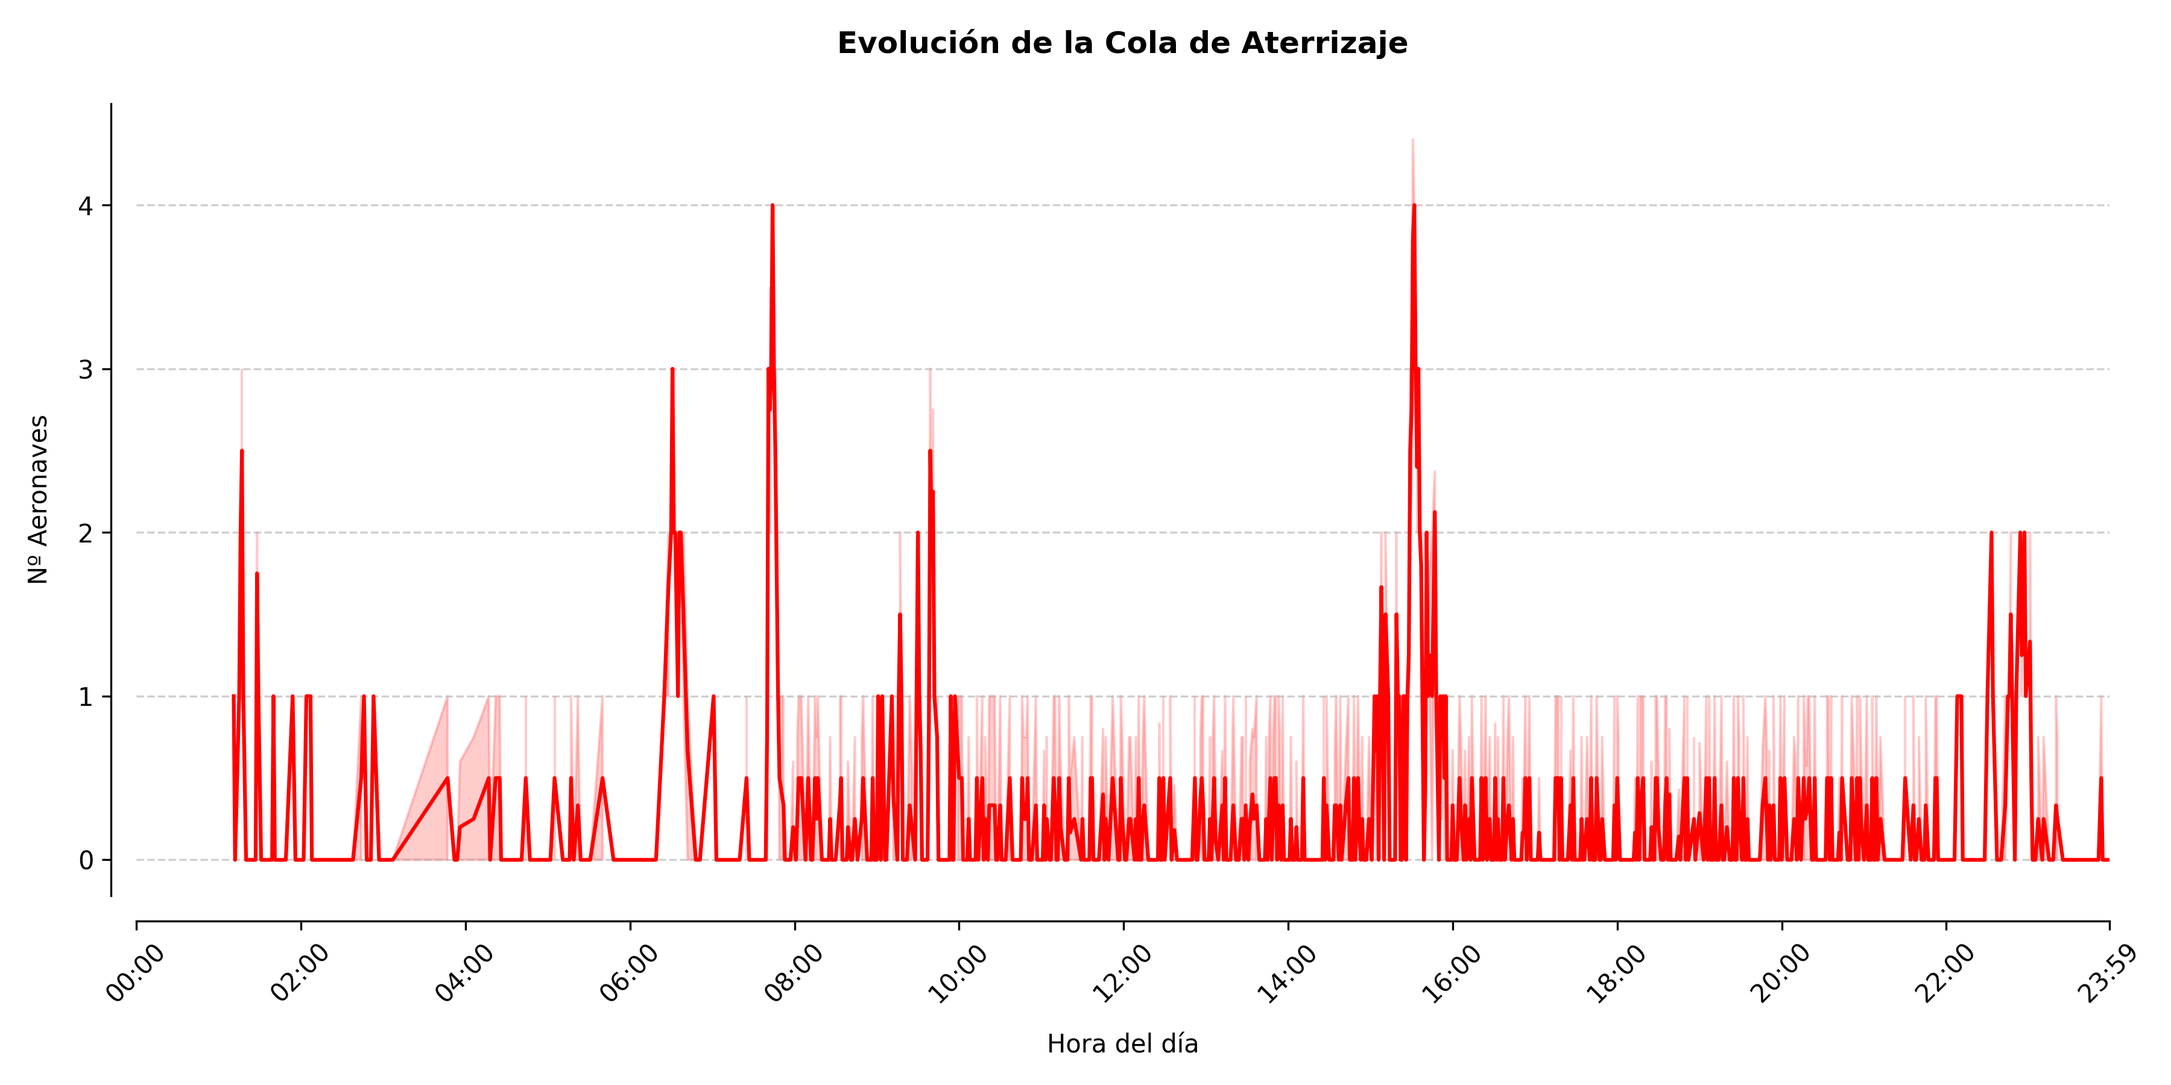
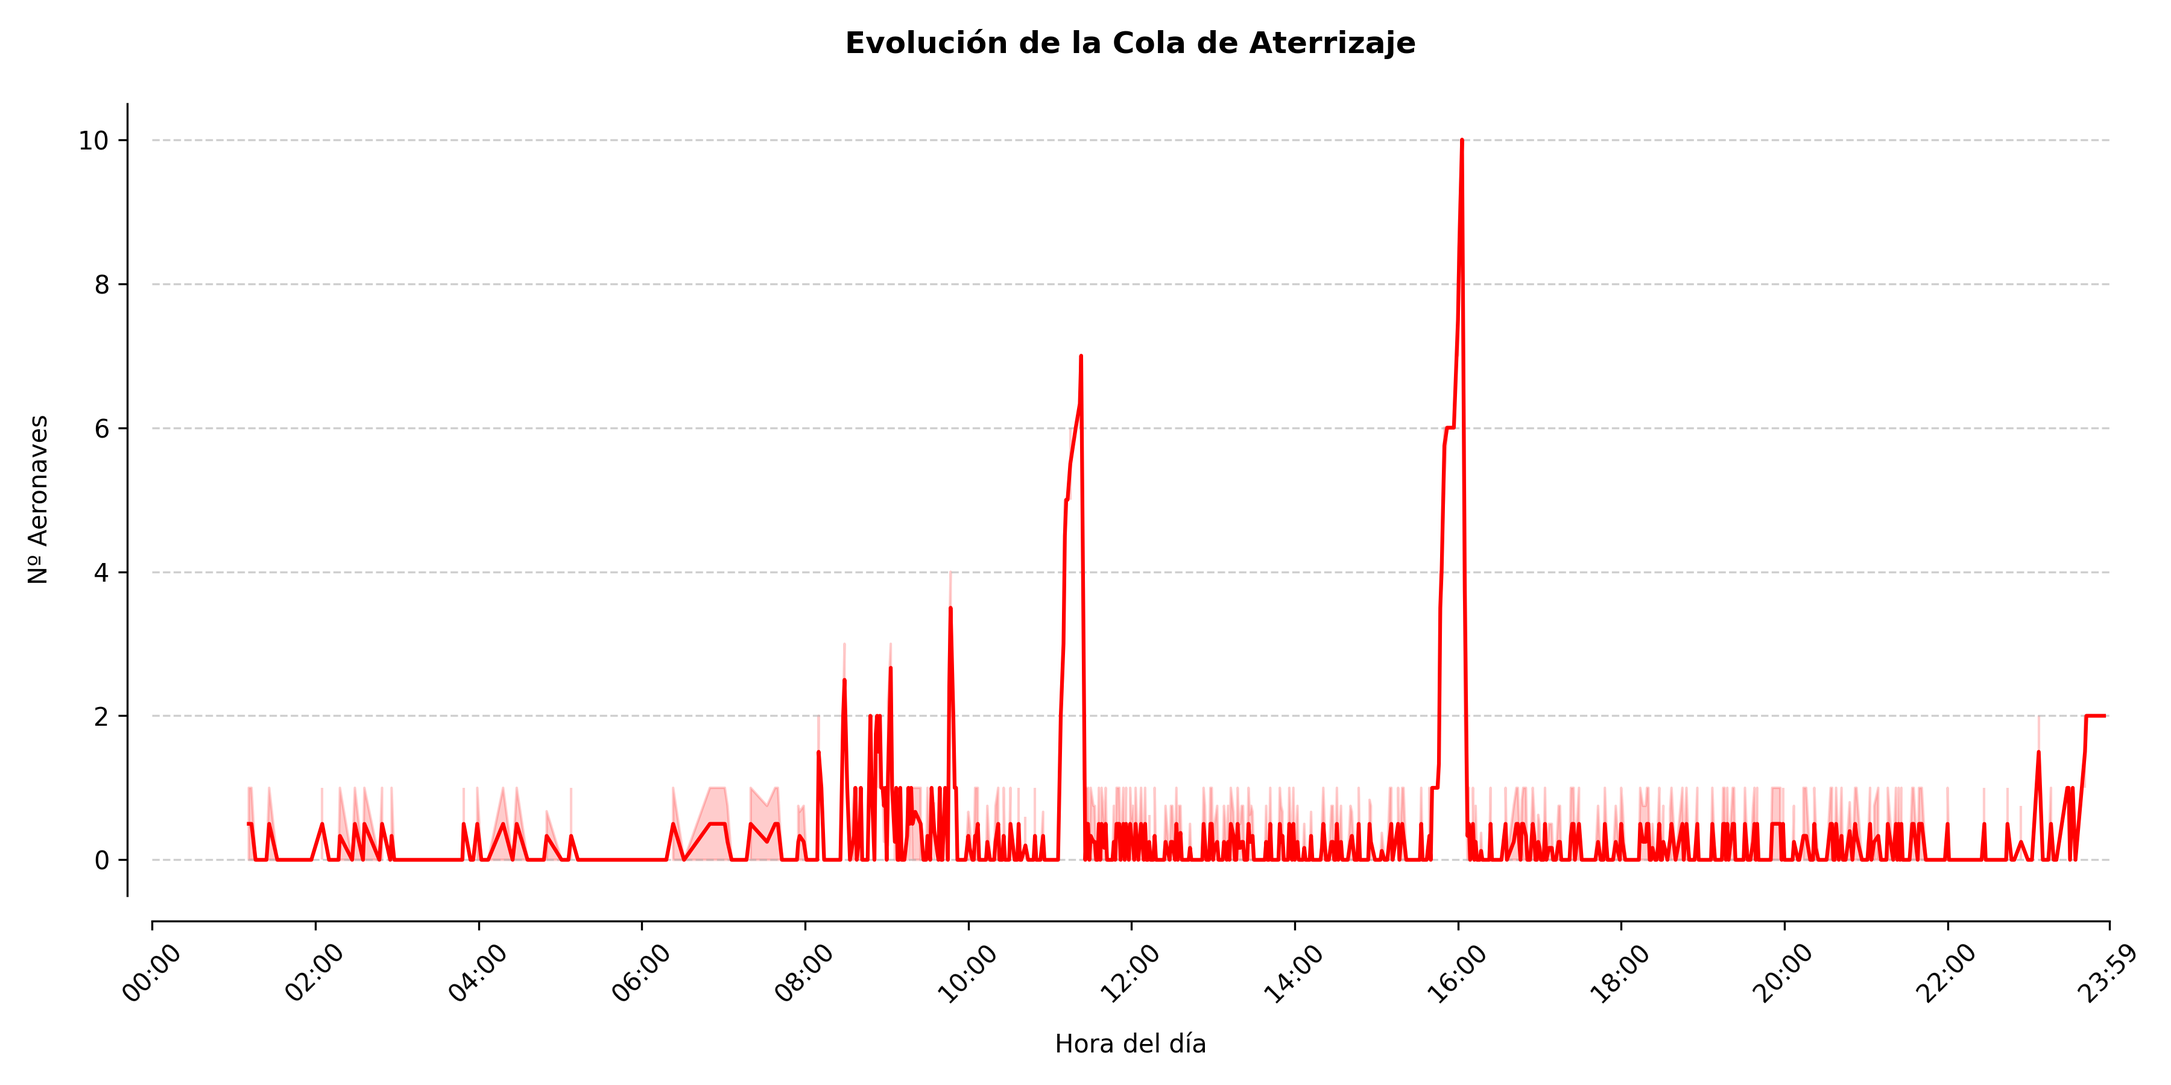
añadido cosas al log, tmb cierre de pistas y vuelos de emergencia

diff --git a/src/Aeronaves.py b/src/Aeronaves.py
@@ -24,6 +24,7 @@ class Aeronave:
         self.tiempoLlegadaMinutos = 0
         self.ticket = ""
         self.gate = ""
+        self.emergencia = False
 
     def infoColaAterrizaje(self,evento,estadoClima,mes,aeronaves):
         try:
@@ -34,10 +35,10 @@ class Aeronave:
         with open(logs,"a", newline="") as log:
             writer = csv.writer(log)
             if not existeEncabezado:
-                writer.writerow(["Reloj","ID","ID_Vuelo","Estado","Pasajeros","Origen","Destino","Hora_Salida_Origen","Hora_Programada_Llegada_Destino","Hora_Llegada_Destino","Hora_Estacionamiento","Hora_Programada_Salida","Hora_Despegue","Tiempo_Ciclo_Aeronave","Mes","Clima","Aeronaves_En_Cola_Llegada","Aeronaves_En_Estacionamiento","Aeronaves_En_Cola_Salida","Gate"])
+                writer.writerow(["Reloj","ID","ID_Vuelo","Estado","Estado_Pista_Aterrizaje","Estado_Pista_Despegue","Pasajeros","Origen","Destino","Hora_Salida_Origen","Hora_Programada_Llegada_Destino","Hora_Llegada_Destino","Hora_Estacionamiento","Hora_Programada_Salida","Hora_Despegue","Tiempo_Ciclo_Aeronave","Mes","Clima","Aeronaves_En_Cola_Llegada","Aeronaves_En_Estacionamiento","Aeronaves_En_Cola_Salida","Gate","Emergencia"])
             reloj = Aeronave.infoReloj(evento.now)
             self.estado = "Llegando"
-            writer.writerow([reloj,self.id,self.vueloId,self.estado,self.pasajeros,self.origen,self.destino,self.horaSalida,self.horaLlegada,self.horaLlegadaReal,self.horaEstacionado,self.horaProgramadaSalida,self.horaDespegue,self.tiempoCicloAvion,mes,estadoClima['clima'],aeronaves["AeronavesEnColaLlegada"],aeronaves["AeronavesEstacionados"],aeronaves["AeronavesEnColaSalida"],""])
+            writer.writerow([reloj,self.id,self.vueloId,self.estado,estadoClima['estadoPistaAterrizaje'],estadoClima['estadoPistaDespegue'],self.pasajeros,self.origen,self.destino,self.horaSalida,self.horaLlegada,self.horaLlegadaReal,self.horaEstacionado,self.horaProgramadaSalida,self.horaDespegue,self.tiempoCicloAvion,mes,estadoClima['clima'],aeronaves["AeronavesEnColaLlegada"],aeronaves["AeronavesEstacionados"],aeronaves["AeronavesEnColaSalida"],"",self.emergencia])
 
     # Te da la info de las aeronaves que ya han aterrizado
     def infoAterrizaje(self,evento,estadoClima,mes,aeronaves):
@@ -45,7 +46,7 @@ class Aeronave:
         self.estado = "Aterrizaje"
         with open(logs,"a") as log:
             writer = csv.writer(log)
-            writer.writerow([reloj,self.id,self.vueloId,self.estado,self.pasajeros,self.origen,self.destino,self.horaSalida,self.horaLlegada,self.horaLlegadaReal,self.horaEstacionado,self.horaProgramadaSalida,self.horaDespegue,self.tiempoCicloAvion,mes,estadoClima['clima'],aeronaves["AeronavesEnColaLlegada"],aeronaves["AeronavesEstacionados"],aeronaves["AeronavesEnColaSalida"],""])
+            writer.writerow([reloj,self.id,self.vueloId,self.estado,estadoClima['estadoPistaAterrizaje'],estadoClima['estadoPistaDespegue'],self.pasajeros,self.origen,self.destino,self.horaSalida,self.horaLlegada,self.horaLlegadaReal,self.horaEstacionado,self.horaProgramadaSalida,self.horaDespegue,self.tiempoCicloAvion,mes,estadoClima['clima'],aeronaves["AeronavesEnColaLlegada"],aeronaves["AeronavesEstacionados"],aeronaves["AeronavesEnColaSalida"],"",self.emergencia])
 
     # Te da la info de las aeronaves que ya estan estacionadas
     def infoEstacionado(self,evento,estadoClima,mes,aeronaves):
@@ -53,7 +54,7 @@ class Aeronave:
         self.estado = "Estacionado"
         with open(logs,"a") as log:
             writer = csv.writer(log)
-            writer.writerow([reloj,self.id,self.vueloId,self.estado,self.pasajeros,self.origen,self.destino,self.horaSalida,self.horaLlegada,self.horaLlegadaReal,self.horaEstacionado,self.horaProgramadaSalida,self.horaDespegue,self.tiempoCicloAvion,mes,estadoClima['clima'],aeronaves["AeronavesEnColaLlegada"],aeronaves["AeronavesEstacionados"],aeronaves["AeronavesEnColaSalida"],self.gate])
+            writer.writerow([reloj,self.id,self.vueloId,self.estado,estadoClima['estadoPistaAterrizaje'],estadoClima['estadoPistaDespegue'],self.pasajeros,self.origen,self.destino,self.horaSalida,self.horaLlegada,self.horaLlegadaReal,self.horaEstacionado,self.horaProgramadaSalida,self.horaDespegue,self.tiempoCicloAvion,mes,estadoClima['clima'],aeronaves["AeronavesEnColaLlegada"],aeronaves["AeronavesEstacionados"],aeronaves["AeronavesEnColaSalida"],self.gate,self.emergencia])
     
     # Te da la info aproximada de cuando va a salir un vuelo
     def infoSalidas(self,evento,estadoClima,mes,aeronaves):
@@ -61,7 +62,7 @@ class Aeronave:
         self.estado = "Programado"
         with open(logs,"a") as log:
             writer = csv.writer(log)
-            writer.writerow([reloj,self.id,self.vueloId,self.estado,self.pasajeros,self.origen,self.destino,self.horaSalida,self.horaLlegada,self.horaLlegadaReal,self.horaEstacionado,self.horaProgramadaSalida,self.horaDespegue,self.tiempoCicloAvion,mes,estadoClima['clima'],aeronaves["AeronavesEnColaLlegada"],aeronaves["AeronavesEstacionados"],aeronaves["AeronavesEnColaSalida"],self.gate])
+            writer.writerow([reloj,self.id,self.vueloId,self.estado,estadoClima['estadoPistaAterrizaje'],estadoClima['estadoPistaDespegue'],self.pasajeros,self.origen,self.destino,self.horaSalida,self.horaLlegada,self.horaLlegadaReal,self.horaEstacionado,self.horaProgramadaSalida,self.horaDespegue,self.tiempoCicloAvion,mes,estadoClima['clima'],aeronaves["AeronavesEnColaLlegada"],aeronaves["AeronavesEstacionados"],aeronaves["AeronavesEnColaSalida"],self.gate,self.emergencia])
 
     # Te da la info de cuando un avion se mete en la cola de despegues
     def infoColaDespegues(self,evento,estadoClima,mes,aeronaves):
@@ -69,8 +70,7 @@ class Aeronave:
         self.estado = "ColaDespegues"
         with open(logs,"a") as log:
             writer = csv.writer(log)
-            writer.writerow([reloj,self.id,self.vueloId,self.estado,self.pasajeros,self.origen,self.destino,self.horaSalida,self.horaLlegada,self.horaLlegadaReal,self.horaEstacionado,self.horaProgramadaSalida,self.horaDespegue,self.tiempoCicloAvion,mes,estadoClima['clima'],aeronaves["AeronavesEnColaLlegada"],aeronaves["AeronavesEstacionados"],aeronaves["AeronavesEnColaSalida"],self.gate])
-
+            writer.writerow([reloj,self.id,self.vueloId,self.estado,estadoClima['estadoPistaAterrizaje'],estadoClima['estadoPistaDespegue'],self.pasajeros,self.origen,self.destino,self.horaSalida,self.horaLlegada,self.horaLlegadaReal,self.horaEstacionado,self.horaProgramadaSalida,self.horaDespegue,self.tiempoCicloAvion,mes,estadoClima['clima'],aeronaves["AeronavesEnColaLlegada"],aeronaves["AeronavesEstacionados"],aeronaves["AeronavesEnColaSalida"],self.gate,self.emergencia])
 
     # Te da la info de cuando ha despegado un avion, si han habido retrasos etc etc
     def infoDespegues(self,evento,estadoClima,mes,aeronaves):
@@ -78,7 +78,7 @@ class Aeronave:
         self.estado = "Despegando"
         with open(logs,"a") as log:
             writer = csv.writer(log)
-            writer.writerow([reloj,self.id,self.vueloId,self.estado,self.pasajeros,self.origen,self.destino,self.horaSalida,self.horaLlegada,self.horaLlegadaReal,self.horaEstacionado,self.horaProgramadaSalida,self.horaDespegue,self.tiempoCicloAvion,mes,estadoClima['clima'],aeronaves["AeronavesEnColaLlegada"],aeronaves["AeronavesEstacionados"],aeronaves["AeronavesEnColaSalida"],""])
+            writer.writerow([reloj,self.id,self.vueloId,self.estado,estadoClima['estadoPistaAterrizaje'],estadoClima['estadoPistaDespegue'],self.pasajeros,self.origen,self.destino,self.horaSalida,self.horaLlegada,self.horaLlegadaReal,self.horaEstacionado,self.horaProgramadaSalida,self.horaDespegue,self.tiempoCicloAvion,mes,estadoClima['clima'],aeronaves["AeronavesEnColaLlegada"],aeronaves["AeronavesEstacionados"],aeronaves["AeronavesEnColaSalida"],"",self.emergencia])
 
     def infoReloj(evento):
             minsActuales = int(evento)

diff --git a/src/Dashboard.py b/src/Dashboard.py
@@ -53,8 +53,14 @@ velocidad = st.sidebar.slider("Velocidad", 0.01, 1.0, 0.1, format="%f s")
 if not dataset.empty:
     progreso_dia = st.session_state.i/len(dataset)
     st.sidebar.progress(min(progreso_dia, 1.0), text="Progreso del Dia")
-
-def render_operativa(fila,colas):
+def emergencia(fila):
+    valor = str(fila.get('Emergencia','False')).strip()
+    if valor == 'True':
+        return ['background-color: #8B0000; color: white'] * len(fila)
+    else:
+        return[''] * len(fila)
+    
+def operativa(fila,colas,datasetHistory):
     st.subheader(f"VISTA OPERATIVA | {fila['Reloj']}")
     c1, c2, c3 = st.columns(3)
     with c1:
@@ -78,28 +84,35 @@ def render_operativa(fila,colas):
         st.markdown(f"<div style='font-size:20px'>{iconos}</div>", unsafe_allow_html=True)
 
     st.divider()
-    if 'val1' not in st.session_state:
-        st.session_state.val1 = ""
-    if 'val2' not in st.session_state:
-        st.session_state.val2 = ""
-    if 'val3' not in st.session_state:
-        st.session_state.val3 = ""
-    mensaje1 = st.empty()
-    mensaje2 = st.empty()
-    mensaje3 = st.empty()
+    if 'aterrizaje' not in st.session_state:
+        st.session_state.aterrizaje = None
+    if 'parking' not in st.session_state:
+        st.session_state.parking = None
+    if 'despegue' not in st.session_state:
+        st.session_state.despegue = None
     
     if fila['Estado'] == "Aterrizaje":
-        st.session_state.val1 = f"Ultimo Aterrizaje registrado: Vuelo {fila['ID_Vuelo']} ({fila['Hora_Salida_Origen']}|{fila['Origen']} -> {fila['Hora_Llegada_Destino']}|{fila['Destino']}) aterrizo"
+        st.session_state.aterrizaje = fila
     if fila['Estado'] == "Estacionado":
-        st.session_state.val2 =f"Ultimo Estacionamiento registrado: Vuelo {fila['ID_Vuelo']} ({fila['Hora_Salida_Origen']}|{fila['Origen']} -> {fila['Hora_Llegada_Destino']}|{fila['Destino']}) estaciono"
+        st.session_state.parking = fila
     if fila['Estado'] == "Despegando":
-        st.session_state.val3 =f"Ultimo Despegue registrado: Vuelo {fila['ID_Vuelo']} ({fila['Hora_Salida_Origen']}|{fila['Origen']} -> {fila['Hora_Llegada_Destino']}|{fila['Destino']}) despego"
-    mensaje1.caption(st.session_state.val1)
-    mensaje2.caption(st.session_state.val2)
-    mensaje3.caption(st.session_state.val3)
+        st.session_state.despegue = fila
+        
+    st.markdown("Ultimos eventos registrados")
+    filas = []
+    if st.session_state.aterrizaje is not None:
+        filas.append(st.session_state.aterrizaje)
+    if st.session_state.parking is not None:
+        filas.append(st.session_state.parking)
+    if st.session_state.despegue is not None:
+        filas.append(st.session_state.despegue)
+
+    if filas:
+        resumen = pd.DataFrame(filas)
+        st.dataframe(resumen.style.apply(emergencia, axis=1),use_container_width=True,hide_index=True)
 
 
-def render_tactica(dataset_hist,fila):
+def tactica(datasetHistory,fila):
     st.subheader(f"VISTA TACTICA | {fila['Reloj']}")
     c4, c5, c6 = st.columns(3)
     with c4:
@@ -125,8 +138,8 @@ def render_tactica(dataset_hist,fila):
         st.markdown(f"               ")
 
     # Tendencia de Colas
-    if not dataset_hist.empty:
-        fig = px.area(dataset_hist, x="Reloj", y=["Aeronaves_En_Cola_Llegada", "Aeronaves_En_Cola_Salida"],
+    if not datasetHistory.empty:
+        fig = px.area(datasetHistory, x="Reloj", y=["Aeronaves_En_Cola_Llegada", "Aeronaves_En_Cola_Salida"],
                       title="Evolucion de Colas (Ultimas 2 horas)", height=300,
                       color_discrete_sequence=["#FFC107", "#FF4B4B"])
         st.plotly_chart(fig, use_container_width=True)
@@ -134,9 +147,14 @@ def render_tactica(dataset_hist,fila):
         st.markdown(f"               ")
         st.markdown(f"               ")
 
-def render_alerta(fila,colas):
+def alerta(fila,colas):
     motivo = "SATURACION DE PISTA" if colas['llegada'] > 7 else "PARKING COMPLETO"
     st.markdown(f"<div class='alerta'>ALERTA CRITICA: {motivo} ({fila['Reloj']})</div>", unsafe_allow_html=True)
+    st.error(f"Llegadas: {colas['llegada']} | Parking: {colas['parking']}/50")
+
+def averia(estado):
+    motivo = "OBJETO EN PISTA DE ATERRIZAJE" if estado['pistaAterrizaje'] == "Cerrada" else "OBJETO EN PISTA DE DESPEGUE"
+    st.markdown(f"<div class='averia'>AVERIA: {motivo} ({fila['Reloj']})</div>", unsafe_allow_html=True)
     st.error(f"Llegadas: {colas['llegada']} | Parking: {colas['parking']}/50")
 
 
@@ -148,32 +166,41 @@ idx = st.session_state.i
 fila = dataset.iloc[idx]
 
 inicio_hist = max(0,idx - 60)
-dataset_history = dataset.iloc[inicio_hist:idx+1]
+datasetH = dataset.iloc[inicio_hist:idx+1]
 
 colas = {
     'llegada': int(fila['Aeronaves_En_Cola_Llegada']),
     'parking': int(fila['Aeronaves_En_Estacionamiento']),
     'salida': int(fila['Aeronaves_En_Cola_Salida'])
 }
+estado = {
+    'pistaDespegue': fila['Estado_Pista_Despegue'],
+    'pistaAterrizaje':fila['Estado_Pista_Aterrizaje']  
+}
 
 container = st.container()
 with container:
     if colas['llegada'] > 7 or colas['parking'] >= 45:
-        render_alerta(fila,colas)
+        alerta(fila,colas)
+
+    if estado['pistaDespegue'] == "Cerrada" or estado['pistaAterrizaje'] == "Cerrada":
+        averia(estado)
     
     elif modo == "Vista Operativa":
-        render_operativa(fila,colas)
+        operativa(fila,colas,datasetH)
     
     elif modo == "Vista Tactica":
-        render_tactica(dataset_history,fila)
+        tactica(datasetH,fila)
     
     else:
         if (idx // 50) % 2 == 0:
-            render_operativa(fila,colas)
+            operativa(fila,colas,datasetH)
         else:
-            render_tactica(dataset_history,fila)
+            tactica(datasetH,fila)
 
 if st.session_state.simulando:
     time.sleep(velocidad)
     st.session_state.i += 1
     st.rerun() 
+
+############################FUNCIONES AUXILIARES############################

diff --git a/src/TorreDeControl.py b/src/TorreDeControl.py
@@ -24,6 +24,7 @@ def controlAereo(evento,anuncio,parking,pistaAterrizajes,pistaDespegues,colaAter
             controlTurnosLlegadas(hora,turnos)
             Aeronave.totalAeronaves += 1
             Aeronave.totalPasajeros += avion.pasajeros
+            aterrizajeEmergencia(avion)
             # Ciclo completo de cada avion
             evento.process(cicloAvion(evento,avion,parking,anuncio,pistaAterrizajes,pistaDespegues,colaAterrizajes,colaEstacionados,colaSalidas,colaDespegues,estadoClima,mes,turnos,aeronaves))
 
@@ -49,14 +50,19 @@ def controlLlegadas(evento,avion,colaAterrizajes,estadoClima,mes,aeronaves):
 # Una vez llegan las aeronaves las retira de la otra cola y las añade a la de aterrizados
 def controlAterrizajes(evento,pista,colaAterrizajes,colaEstacionados,estadoClima,mes,aeronaves):
     if colaAterrizajes:
-        with pista.request( ) as request: # si hay request de aterrizar en pista
+        avion = colaAterrizajes.items[0]
+        if avion.emergencia:
+            prioridad = -1
+        else:
+            prioridad = 1
+        with pista.request(priority=prioridad) as request: # si hay request de aterrizar en pista
             yield request
             tiempoHastaAterrizar = estadoClima['retraso']
             yield evento.timeout(tiempoHastaAterrizar)
             aterriza = yield colaAterrizajes.get()
+            aeronaves["AeronavesEnColaLlegada"] -= 1
             aterriza.horaLlegadaReal = tiempoEvento(evento.now)
             aterriza.tiempoLlegadaMinutos = int(evento.now)
-            aeronaves["AeronavesEnColaLlegada"] -= 1
             aterriza.infoAterrizaje(evento,estadoClima,mes,aeronaves)
             yield colaEstacionados.put(aterriza)   
     else:
@@ -103,7 +109,7 @@ def controlDespegues(evento,parking,pista,colaDespegues,estadoClima,mes,turnos,a
     if colaDespegues:
         salida = yield colaDespegues.get()
         avion = salida
-        with pista.request() as request: #hace request por si no hay ningún avión en la pista
+        with pista.request(priority=1) as request: #hace request por si no hay ningún avión en la pista
             yield request
             if(hasattr(avion,'ticketParking')):
                 yield parking.put(avion.gate)
@@ -205,5 +211,10 @@ def controlHorario(evento,turnos,retraso):
     if evento.now - retraso > 1440 * turnos["dias"]:
         turnos["dias"] += 1
             
+def aterrizajeEmergencia(avion):
+    if random.random() <0.02:
+        avion.emergencia = True
+    else:
+        avion.emergencia = False
         
         

diff --git a/src/Main.py b/src/Main.py
@@ -21,10 +21,10 @@ def main():
         print(f"Iteracion: {i}")
         random.seed(semillaActual)
         evento = simpy.Environment()
-        pistaAterrizaje = simpy.Resource(evento,capacity=1) #servidor para la pista de aterrizaje
-        pistaDespegue = simpy.Resource(evento,capacity=1) #servidor para la pista de despegue
+        pistaAterrizaje = simpy.PriorityResource(evento,capacity=1) #servidor para la pista de aterrizaje
+        pistaDespegue = simpy.PriorityResource(evento,capacity=1) #servidor para la pista de despegue
         anuncio = simpy.Resource(evento,capacity = 1) #servidor para la los anuncios de viajes de despegue
-        parking = simpy.Store(evento,capacity=100) #servidor para el estacionamiento
+        parking = simpy.Store(evento,capacity=50) #servidor para el estacionamiento
         colaAterrizajes = simpy.Store(evento,capacity = 10)
         colaEstacionados = simpy.Store(evento,capacity = 50)
         colaSalidas = simpy.Store(evento,capacity = 1)
@@ -34,7 +34,9 @@ def main():
         #DATOS EN LISTAS
         estadoClima = {
             'clima':'Soleado',
-            'retraso': 0.0
+            'retraso': 0.0,
+            'estadoPistaAterrizaje':'Activa',
+            'estadoPistaDespegue':'Activa'
         }
         turnos = {
             "Madrugada": 0,

diff --git a/memoria/secciones/Prototipo2.tex b/memoria/secciones/Prototipo2.tex
@@ -25,3 +25,12 @@ La vista operativa muestra las colas de llegadas y salidas de las aeronaves, mie
     \label{fig:Vista Operativa Dashboard}
 \end{figure}
 
+La vista táctica muestra información sobre el número de pasajeros que llega al aeropuerto y cuantos de ellos se están atendiendo. Además, presenta el clima actual, el estado de la simulación y un gráfico que refleja la cantidad de aeronaves en la cola de llegadas y salidas.
+
+\begin{figure}[h!]
+    \centering
+    \includegraphics[width=0.8\textwidth]{portada/VistaTactica.png}
+    \caption{fig:Vista Táctica Dashboard}
+    \label{fig:Vista Táctica Dashboard}
+\end{figure}
+

diff --git a/src/Input.py b/src/Input.py
@@ -39,6 +39,8 @@ def procesos(evento,anuncio,parking,pistaAterrizaje,pistaDespegue,colaAterrizaje
                                 colaDespegues,estadoClima,mes,turnos,aeronaves,retraso))
     
     evento.process(logicaClima(evento,estadoClima,mes))
+    evento.process(generadorAverias(evento,pistaAterrizaje,estadoClima,'estadoPistaAterrizaje',0,720))
+    evento.process(generadorAverias(evento,pistaDespegue,estadoClima,'estadoPistaDespegue',720,1440))
 
 def resultados(turnos,aeronaves,resultados,semilla,i):
      resultados.append({

diff --git a/src/FactoresExternos.py b/src/FactoresExternos.py
@@ -73,3 +73,13 @@ def operacionesMes(mes):
         case "DICIEMBRE":
             demandaMensual = 1.02
     return demandaMensual
+
+def generadorAverias(evento,pista,estado,modo,min,max):
+    while True:
+        tiempo = random.uniform(min,max)
+        yield evento.timeout(tiempo)
+        estado[modo] = 'Cerrada'
+        with pista.request(priority=0) as req:
+            yield req
+            yield evento.timeout(random.uniform(20,30))
+        estado[modo] = 'Activa'
